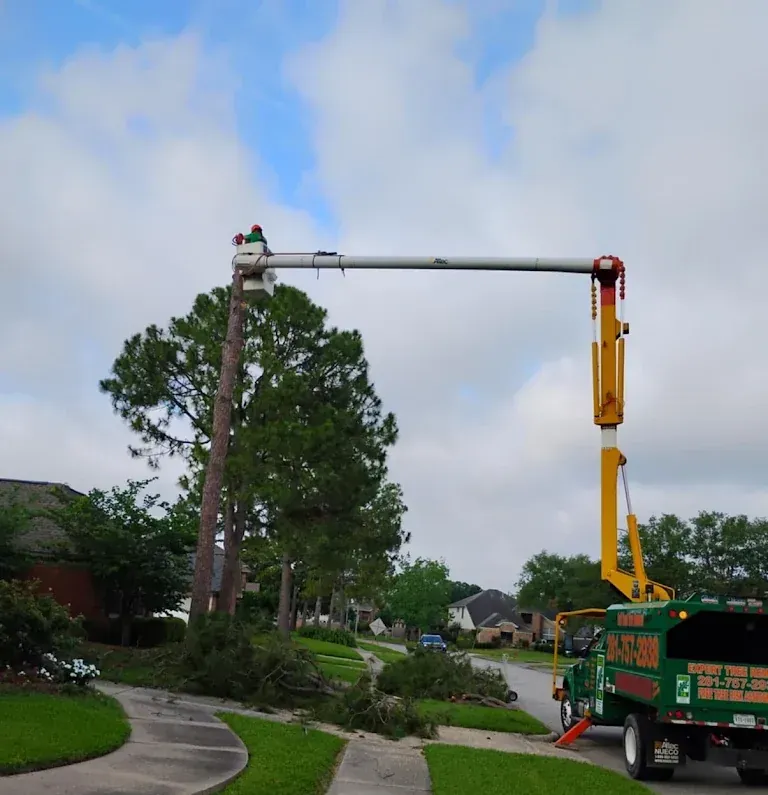
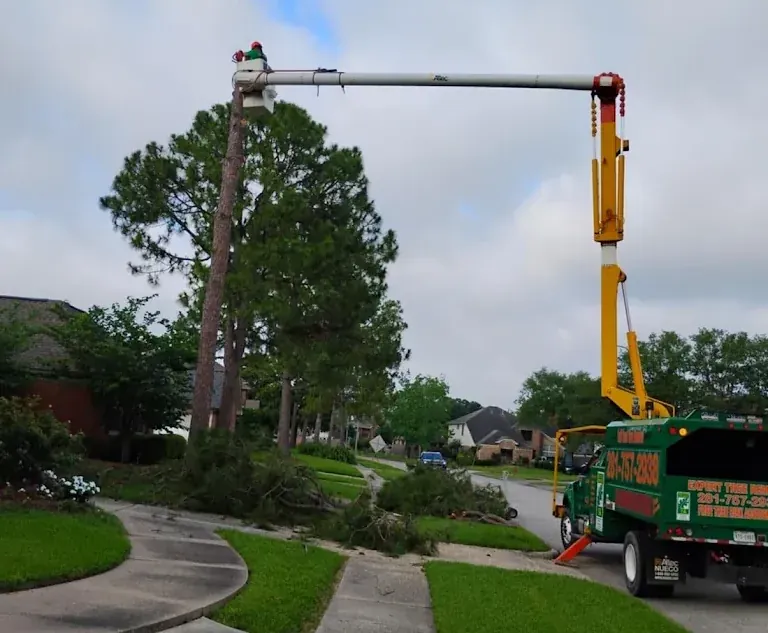
Hero: truck-favoring mobile crop, lighter lower scrim, top-weighted stack; intro photo sky trimmed

diff --git a/src/styles/global.css b/src/styles/global.css
@@ -259,7 +259,10 @@ p:last-child { margin-bottom: 0; }
      vh first as the fallback for browsers without lvh. */
   min-height: 100vh;
   min-height: 100lvh;
-  display: grid; align-content: center;
+  /* start-weighted, not centred: centring in a full-viewport box pushed the
+     H1 too far down the screen once the header's visual weight was counted.
+     The small top offset keeps it off the header without burying it. */
+  display: grid; align-content: start; padding-top: 3.5rem;
 }
 .hero--photo h1 { margin-inline: auto; }
 .hero__benefits {
@@ -295,10 +298,13 @@ p:last-child { margin-bottom: 0; }
 }
 .hero--photo::before {
   z-index: 1;
+  /* Heavy where the copy sits, light where the truck sits. The stack
+     occupies roughly the top two thirds, so the lower third only needs
+     enough tint to keep the buttons legible. */
   background-image: linear-gradient(180deg,
-    rgba(13, 42, 27, 0.94) 0%,
-    rgba(13, 42, 27, 0.84) 48%,
-    rgba(13, 42, 27, 0.66) 100%);
+    rgba(13, 42, 27, 0.92) 0%,
+    rgba(13, 42, 27, 0.80) 45%,
+    rgba(13, 42, 27, 0.40) 100%);
 }
 @media (min-width: 48rem) {
   .hero--photo .hero__img { object-position: center 42%; }
@@ -501,7 +507,7 @@ p:last-child { margin-bottom: 0; }
      while stopping runaway height on unscaled 4K portrait edge cases. */
   .hero--photo {
     min-height: min(100lvh, 86rem);
-    display: grid; align-content: center;
+    display: grid; align-content: center; padding-top: 0;
   }
   .hero__cta { flex-direction: row; max-width: none; justify-content: center; }
   .hero__benefits { font-size: 1.3rem; margin-top: 1.1rem; }